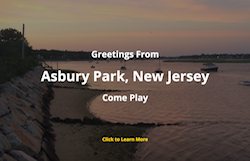
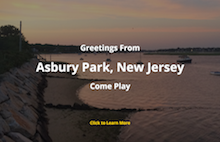
rework with background image

diff --git a/src/containers/Launch.js b/src/containers/Launch.js
@@ -4,77 +4,26 @@ import {connect} from 'react-redux';
 
 const mapStateToProps = (state) => ({
     state: state,
-    data: state.data
+    data: state.data,
+    nav: state.nav
 });
 
 class Main extends Component {
-    initiateTransition(e, type) {
-        let div;
-        setTimeout(()=> {
-            if (type === 'oscillate') {
-                div = document.getElementsByClassName(e);
-                if (div[0]) {
-                    this.oscillate(div[0]);
-                }
-            } else if (type === 'hover') {
-                div = document.getElementsByClassName(e.class);
-                if (div[0]) {
-                    this.hover(div[0]);
-                }
-            }
-        }, 1000);
-
-    }
-    oscillate(div) {
-        const slideRightComplete = new Event('slide-right-complete');
-        const slideLeftComplete = new Event('slide-left-complete');
-
-        div.addEventListener('slide-right-complete', () => {
-            div.classList.remove('slider-animate');
-            div.classList.add('slider-reverse');
-            setTimeout(() => {
-                div.dispatchEvent(slideLeftComplete);
-            }, 2000);
-        }, false);
-
-        div.addEventListener('slide-left-complete', () => {
-            div.classList.remove('slider-reverse');
-            div.classList.add('slider-animate');
-            setTimeout(() => {
-                div.dispatchEvent(slideRightComplete);
-            }, 2000);
-        }, false);
-
-        div.dispatchEvent(slideLeftComplete);
-    }
-    hover(div) {
-        div.addEventListener('mouseover', () => {
-            div.classList.add('grow');
-            div.classList.remove('normal');
-        });
-        div.addEventListener('mouseout', () => {
-            div.classList.remove('grow');
-            div.classList.add('normal');
-        })
-    }
     render() {
         let keys = Object.keys(this.props.state.data);
+        console.log(this.props);
         return (
-            <div className="box-wrapper">
-                {keys.map((keyed) =>
-                    <div
-                        onLoad={this.initiateTransition(keyed, 'oscillate')}
-                        key={keyed}
-                        className={keyed}>
-                        {this.props.state.data[keyed].map ? this.props.state.data[keyed].map((info) =>
-                            <Box key={info.id}
-                                path={info.path = keyed}
-                                onLoad={this.initiateTransition(info, 'hover')}
-                                {...info}
-                            />
-                        ): this.props.state.data[keyed] === null }
-                    </div>
-                )}
+            <div>
+                <div>Jack Masterson</div>
+                <div className="box-wrapper flex-wrapper">
+                    {this.props.data.nav.map((info) =>
+                        <Box 
+                            key={info.id}
+                            path={info.path}
+                            {...info}
+                        />
+                    )}
+                </div>
             </div>
         );
     }

diff --git a/src/components/Box.js b/src/components/Box.js
@@ -1,12 +1,70 @@
 import React from 'react';
 import {Link} from 'react-router-dom';
 
+const methods = {
+    initiateTransition(e, type) {
+        let div;
+        setTimeout(() => {
+            div = document.getElementsByClassName(e);
+            if (div[0]) {
+                this.oscillate(div[0]);
+                this.hover(div[0]);
+            }
+        }, 100);
+
+    },
+    oscillate(div){
+        const slideRightComplete = new Event('slide-right-complete');
+        const slideLeftComplete = new Event('slide-left-complete');
+
+        div.addEventListener('slide-right-complete', () => {
+            div.classList.remove('slider-animate');
+            div.classList.add('slider-reverse');
+            setTimeout(() => {
+                div.dispatchEvent(slideLeftComplete);
+            }, 2000);
+        }, false);
+
+        div.addEventListener('slide-left-complete', () => {
+            div.classList.remove('slider-reverse');
+            div.classList.add('slider-animate');
+            setTimeout(() => {
+                div.dispatchEvent(slideRightComplete);
+            }, 2000);
+        }, false);
+
+        div.dispatchEvent(slideLeftComplete);
+    },
+    hover(div){
+        div.addEventListener('mouseover', () => {
+            div.classList.add('grow');
+            div.classList.remove('normal');
+        });
+        div.addEventListener('mouseout', () => {
+            div.classList.remove('grow');
+            div.classList.add('normal');
+        })
+    }
+}
 export const Box = (data) => {
+    let path;
+    let classed;
+    if (data.category) {
+        path = `/${data.category}/${data.class}`;
+        // classed = data.class;
+    } else {
+        path = `/${data.title}`;
+        // classed = data.title;
+    }
     return (
-        <div className={`box ${data.class}`}>
+        <div className={`box shade ${data.title}`}>
             <Link 
-                to={`/${data.category}/${data.class}`}>
-                <div className="shade">{data.title}</div>
+                to={path}>
+                <div 
+                    onLoad={methods.initiateTransition(data.title)}
+                    className="sub-box">
+                    {data.title.charAt(0).toUpperCase() + data.title.slice(1)}
+                </div>
             </Link>
         </div>
     );

diff --git a/src/reducers/data.js b/src/reducers/data.js
@@ -1,31 +1,43 @@
 const initialState = {
+    nav: [{
+        title: 'projects',
+        key: 1,
+    }, {
+        title: 'skillset',
+        key: 2,
+    }, {
+        title: 'extracurriculars',
+        key: 3,
+    }],
     projects: [{
         title: 'Bus App',
         key: 1,
         class: 'bus-app',
         category: 'projects',
     }, {
-        title: 'Bus Website',
+        title: 'Bus Web',
         key: 2,
         class: 'bus-website',
         category: 'projects',
     }, {
-        title: 'Old Resume',
+        title: 'Old Res',
         key: 3,
         class: 'old-resume',
         category: 'projects',
     }, {
-        title: 'Basic Data',
+        title: 'Data',
         key: 4,
         class: 'basic-data',
         category: 'projects',
+        src: 'https://rawgit.com/jackmasterson/nycstats/master/index.html',
     }, {
-        title: 'Arcade Game',
+        title: 'Arcade',
         key: 5,
         class: 'arcade-game',
         category: 'projects',
+        src: 'https://cdn.rawgit.com/jackmasterson/canvasArcade/master/app/index.html',
     }, {
-        title: 'Neighborhood Map',
+        title: 'Mapped',
         key: 6,
         class: 'neighborhood-map',
         category: 'projects',
@@ -37,17 +49,17 @@ const initialState = {
         class: 'languages',
         category: 'skillset',
     }, {
-        title: 'Frameworks/Libraries',
+        title: 'Libs',
         key: 2,
         class: 'frameworks',
         category: 'skillset',
     }, {
-        title: 'Build Tools',
+        title: 'Tools',
         key: 3,
         class: 'build-tools',
         category: 'skillset',
     }],
-    extracurriculars: [{
+    /*extracurriculars: [{
         title: 'Comedy',
         key: 1,
         class: 'comedy',
@@ -57,7 +69,7 @@ const initialState = {
         key: 2,
         class: 'writing',
         category: 'extracurriculars',
-    }]
+    }]*/
 }
 
 const DATA_REQUESTED = 'DATA_REQUESTED';

diff --git a/src/App.css b/src/App.css
@@ -1,36 +1,52 @@
 body {
-  background-color: gray;
+  background: url('./img/shark-two.png') center center fixed no-repeat;
 }
 .App {
   text-align: center;
 }
 
 .box {
-  margin: 3vw 3vw 3vw 3vw;
+  margin: 7vw 3vw 7vw 3vw;
   display: inline-block;
   text-align: center;
   padding: 3vw;
   border: 1px solid black;
   width: 10vw;
-  max-height: 5vh;
+  max-height: 10vh;
 }
 
 .box-wrapper {
   width: 80vw;
   overflow: hidden;
   margin-left: 10vw;
+  display: flex;
+  flex-direction: row;
+  flex-wrap: wrap;
+  justify-content: space-around;
+}
+
+.sub-box {
+    color: white;
 }
 
 .shade {
   background: rgba(0,0,0,0.5);
-  color: white;
-  padding: 5px;
   border-radius: 5px;
+}
+
+.nav-bar {
+  width: 100vw;
+  background-color: rgba(0,0,0,0.5);
 }
 
 .nav-item {
   display:inline-block;
   margin: 15px;
+}
+
+.nav-link {
+  color: white;
+  text-decoration: none;
 }
 
 .preview {
@@ -79,25 +95,25 @@ body {
     background: url('./img/data.png') center center no-repeat;
 }
 
-.languages {
+/* .languages {
     background: url('./img/ul.png') center center no-repeat;
-}
+} */
 
 .comedy {
   background: url('./img/improv.jpg') center center no-repeat;
 }
 
-.frameworks {
+/* .frameworks {
     background: url('./img/data.png') center center no-repeat;
-}
+} */
 
 .writing {
     background: url('./img/writing.png') center center no-repeat;
 }
 
-.build-tools {
+/* .build-tools {
     background: url('./img/data.png') center center no-repeat;
-}
+} */
 
 .neighborhood-map {
     background: url('./img/map.png') center center no-repeat;

diff --git a/src/containers/SelectedPage.js b/src/containers/SelectedPage.js
@@ -28,17 +28,24 @@ class SelectedPage extends Component {
         this.props.filterNow(info[0]);
     }
     render() {
-        if (this.props.filter) {
+        if (this.props.filter && this.props.filter.src) {
             return (
                 <div>
                     <h1>{this.props.filter.title}</h1>
                     <iframe className="preview" src={this.props.filter.src}></iframe>
                 </div>
             );
-        } else {
+        } else if (!this.props.filter) {
             return (
                 <h1>Updating...</h1>
             )
+        } else if (this.props.filter && !this.props.filter.src) {
+            return (
+                <div>
+                    <h1>{this.props.filter.title}</h1>
+                    <p>No preview for this one but keep checking back!</p>
+                </div>
+            );
         }
 
     }

diff --git a/src/containers/NavBar.js b/src/containers/NavBar.js
@@ -12,14 +12,14 @@ export default class NavBar extends Component {
         }, {
             href: 'skillset',
             text: 'Tech Stack',
-        }, {
+        }, /*{
             href: 'extracurriculars',
             text: 'Extracurriculars',
-        }];
+        }*/];
     }
     render() {
         return (
-            <div>
+            <div className="nav-bar">
                 {this.links.map(link => 
                     <NavItem key={link.href} {...link} />
                 )}

diff --git a/src/components/NavItem.js b/src/components/NavItem.js
@@ -3,6 +3,10 @@ import { Link } from 'react-router-dom';
 
 export const NavItem = (data) => (
     <div className="nav-item">
-       <Link to={`/${data.href}`}>{data.text}</Link>
+       <Link 
+        className="nav-link" 
+        to={`/${data.href}`}>
+        {data.text}
+        </Link>
     </div>
 )
